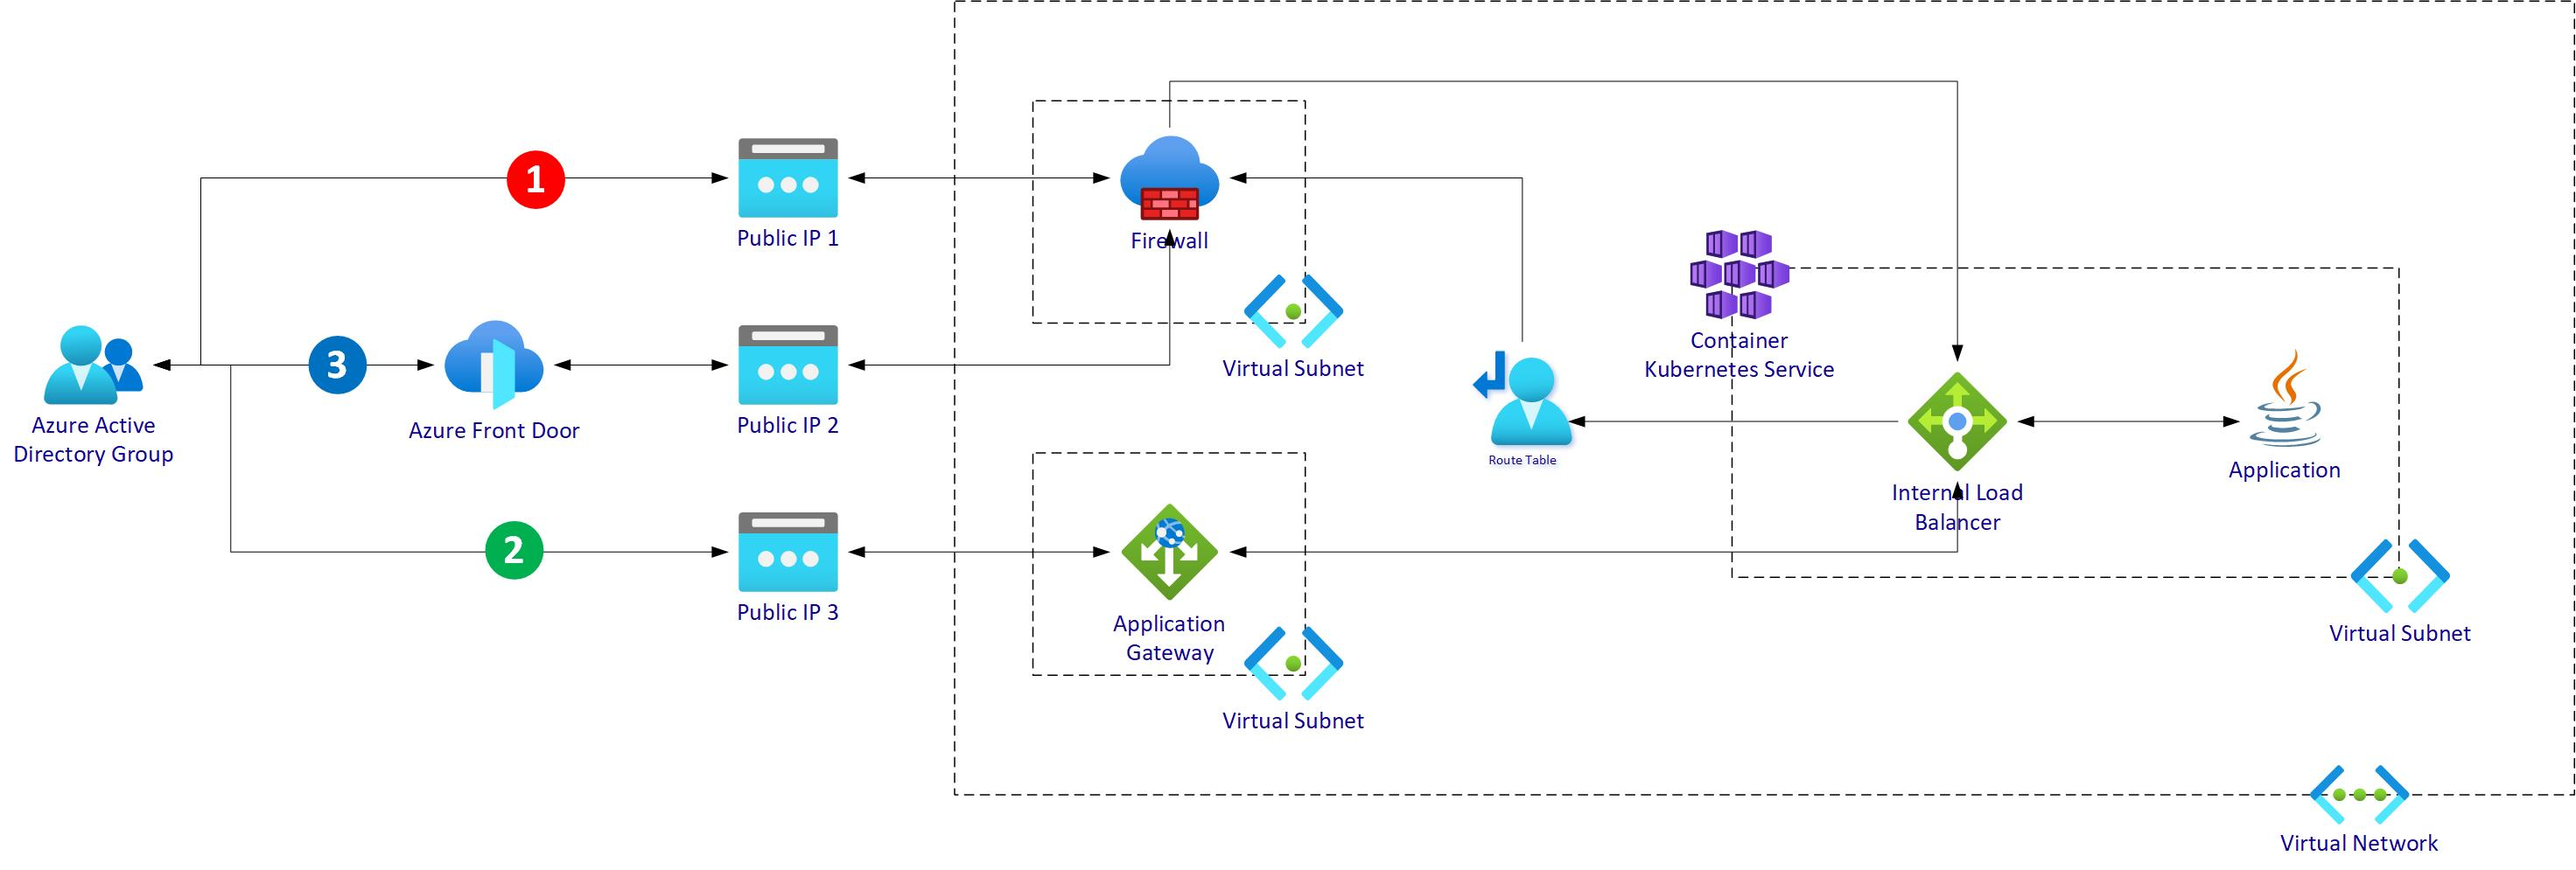
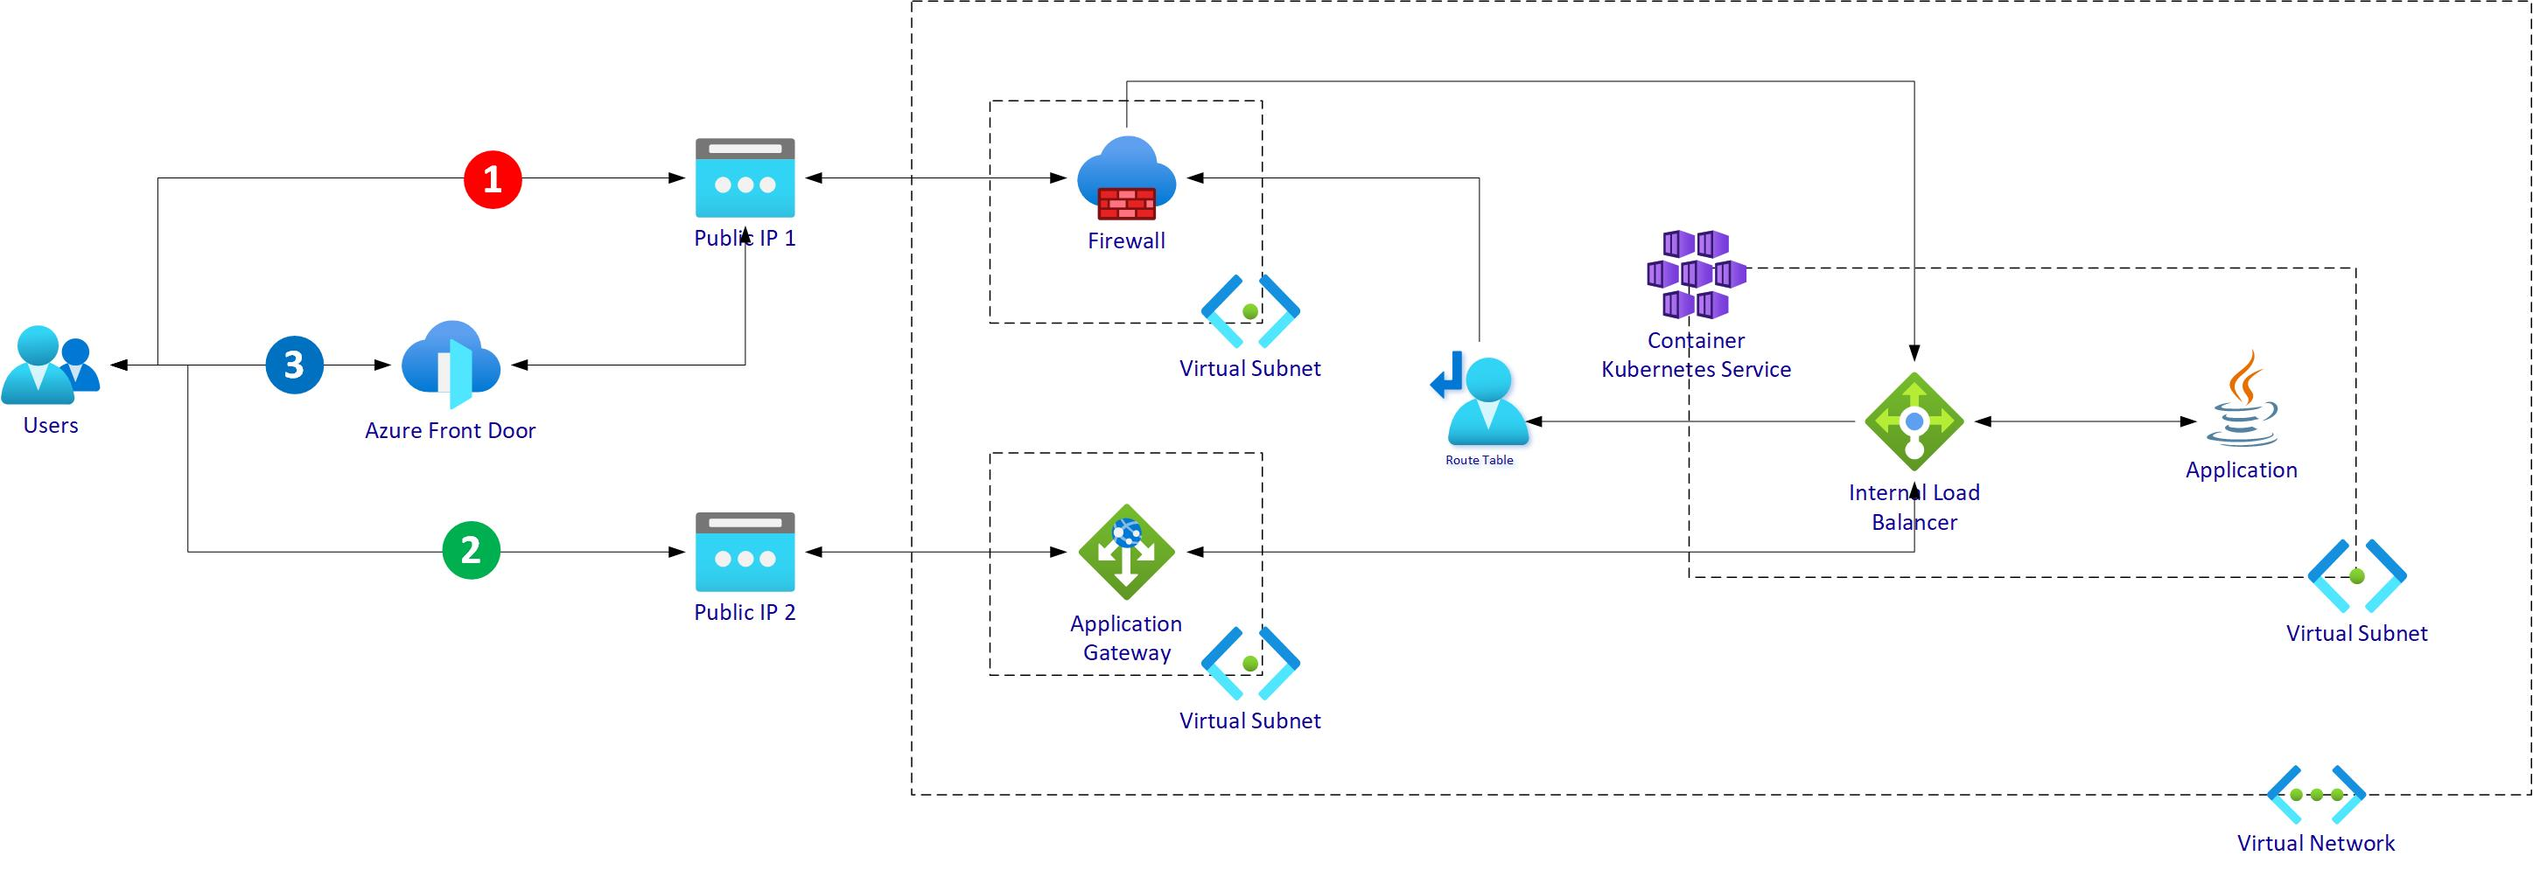
edited some portions

diff --git a/_drafts/firewall-in-azure.md b/_drafts/firewall-in-azure.md
@@ -7,10 +7,9 @@ tags:
   - Azure Firewall
   - Azure Application Gateway
   - Azure Front Door
-  - NVA
 ---
 
-Azure has multiple services providing firewall capabilities. Features provided by these services are well documented. Many enterprises have separate security and development teams. It is common for enterprise security teams to mandate an Azure service that provides firewall capability as part of architecture for an application. This post will help enterprise security teams make an informed decision on choosing right firewall service for applications running on Azure.
+Azure has multiple services providing firewall capabilities. Features provided by these services are well documented. However, seeing these capabilities in action can help  evaluate each service before making a decision. This post will use a SQL injection attack to showcase firewall capabilities.
 
 Below are three key Azure services that provide firewall services.
 
@@ -38,38 +37,40 @@ This post will cover creating a Java application with a known SQL injection vuln
 
 ![design](/assets/aks/firewallpost.jpg)
 
-An user request traversal for Azure Firewall, Azure Application Gateway and Azure Front Door is described below.
+An user request flow for Azure Firewall, Azure Application Gateway and Azure Front Door is described below.
 
-### Azure Firewall traversal
+### Azure Firewall request flow
 
-Azure Firewall traversal consists of following.
+Azure Firewall request flow consists of following.
 
 1. User request arrives at a public IP address.
 1. Azure Firewall has a NAT rule to route the incoming request to private address of Azure Internal Load Balancer associated with Service controller in AKS.
 1. An Azure User Defined Route (UDR) is created with Azure Firewall as "Next Hop". This UDR is associated with subnet containing AKS cluster.
 1. Azure Firewall has Network and Application rules created to allow egress traffic originating from AKS cluster.
 
-### Azure Application Gateway traversal
+### Azure Application Gateway request flow
 
-Azure Application Gateway traversal consists of following.
+Azure Application Gateway request flow consists of following.
 
 1. User request arrives at a public IP address which is configured as a front-end IP address for Azure Application Gateway.
 1. Azure Application Gateway is configured with *Prevention* as Firewall mode.
 1. Azure Application Gateway has a HTTP probe created for Azure Internal Load Balancer inside AKS subnet.
 
-### Azure Front Door traversal
+### Azure Front Door request flow
 
-Azure Front Door traversal consists of following.
+Azure Front Door request flow consists of following.
 
 1. User request arrives at a public IP address which is configured as a backend address for Azure Front Door.
-1. XXXX.
+1. Azure Front Door uses public IP or any publically routable DNS address as it's backend. In this example, Azure Front Door is using Azure Firewall's public IP as a backend.
 1. Azure Front Door has a WAF Policy created with *Prevention* mode.
 1. WAF Policy associated with Azure Front Door has Azure Managed Rule Set assigned to it.
 1. WAF Policy with Azure Managed Rule Set is applied to the Azure Front Door front endpoint.
 
 ## SQL Injection vulnerability
 
-Sample application is created with known SQL injection vulnerability. Application has components as described below.
+Sample application is written using Java Servlet. It has a known SQL injection vulnerability. Application has components as described below.
+
+> This post has used Java Servlet with SQL injection for demo purpose only. This does not imply that Java Servlet has this vulnerability. Java Servlet is a mature platform and has platform features to prevent SQL injection.
 
 ### HTML Page
 
@@ -105,7 +106,7 @@ protected void doPost(HttpServletRequest request, HttpServletResponse response)
         String password = request.getParameter("password");
 ```
 
-It further connects with MySQL database. Using username and password, it issues a query against table.
+It further connects with MySQL database. A query using username and password is made against database table.
 
 ```java
         String query = "select * from tblUser where username='" + username + "' and password = '" + password + "'";
@@ -135,10 +136,9 @@ It further connects with MySQL database. Using username and password, it issues 
     }
 ```
 
-If query fetches any record from table then login is considered successful. If login is successful the users are navigated to *home* page else they will be navigated to *unauth* page.
+If query fetches any record from table then login is considered as successful. If login is successful then users are navigated to *home* page else they will be navigated to *unauth* page.
 
-username and password are
-> Note that MySQL database is also running as a service controller in AKS. Java Servlet Connectionstring uses the Service name for MySQL.
+> MySQL database is also running as a Service controller in AKS. Java Servlet Connectionstring uses the Service controller name for MySQL connectivity.
 
 ### Dockerfile
 
@@ -374,8 +374,12 @@ az network front-door update `
     --name $AFD_NAME `
     --set FrontendEndpoints[0].WebApplicationFirewallPolicyLink.id=/subscriptions/$SUB_ID/resourcegroups/$RG/providers/Microsoft.Network/frontdoorwebapplicationfirewallpolicies/$AFD_POLICY_NAME 
 ```
-When a user navigates to Azure Front Door front address (e.g [YOUR-AFD-NAME].azurefd,net) application login page shown.
+When a user navigates to Azure Front Door front address (e.g [YOUR-AFD-NAME].azurefd.net) application login page is shown.
 
 If user enters password `' or '1'='1` that initiates SQL injection attack, a request blocked page is shown as below.
 
 ![afdblocked](/assets/aks/afdblocked.png)
+
+Azure Front Door has blocked the request which had SQL injection script in it.
+
+## Summary
